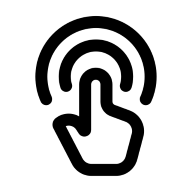
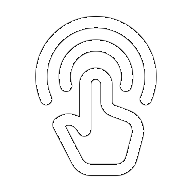
Add files via upload

Changed region(s): [[0.2812, 0.3438, 0.75, 0.9375], [0.1875, 0.0625, 0.8125, 0.5625], [0.2812, 0.1875, 0.6875, 0.4688]]

diff --git a/sw.js b/sw.js
@@ -1,4 +1,4 @@
-const CACHE_NAME = 'chooser-pwa-v4';
+const CACHE_NAME = 'chooser-pwa-v5';
 const ASSETS_TO_CACHE = [
   './',
   './index.html',